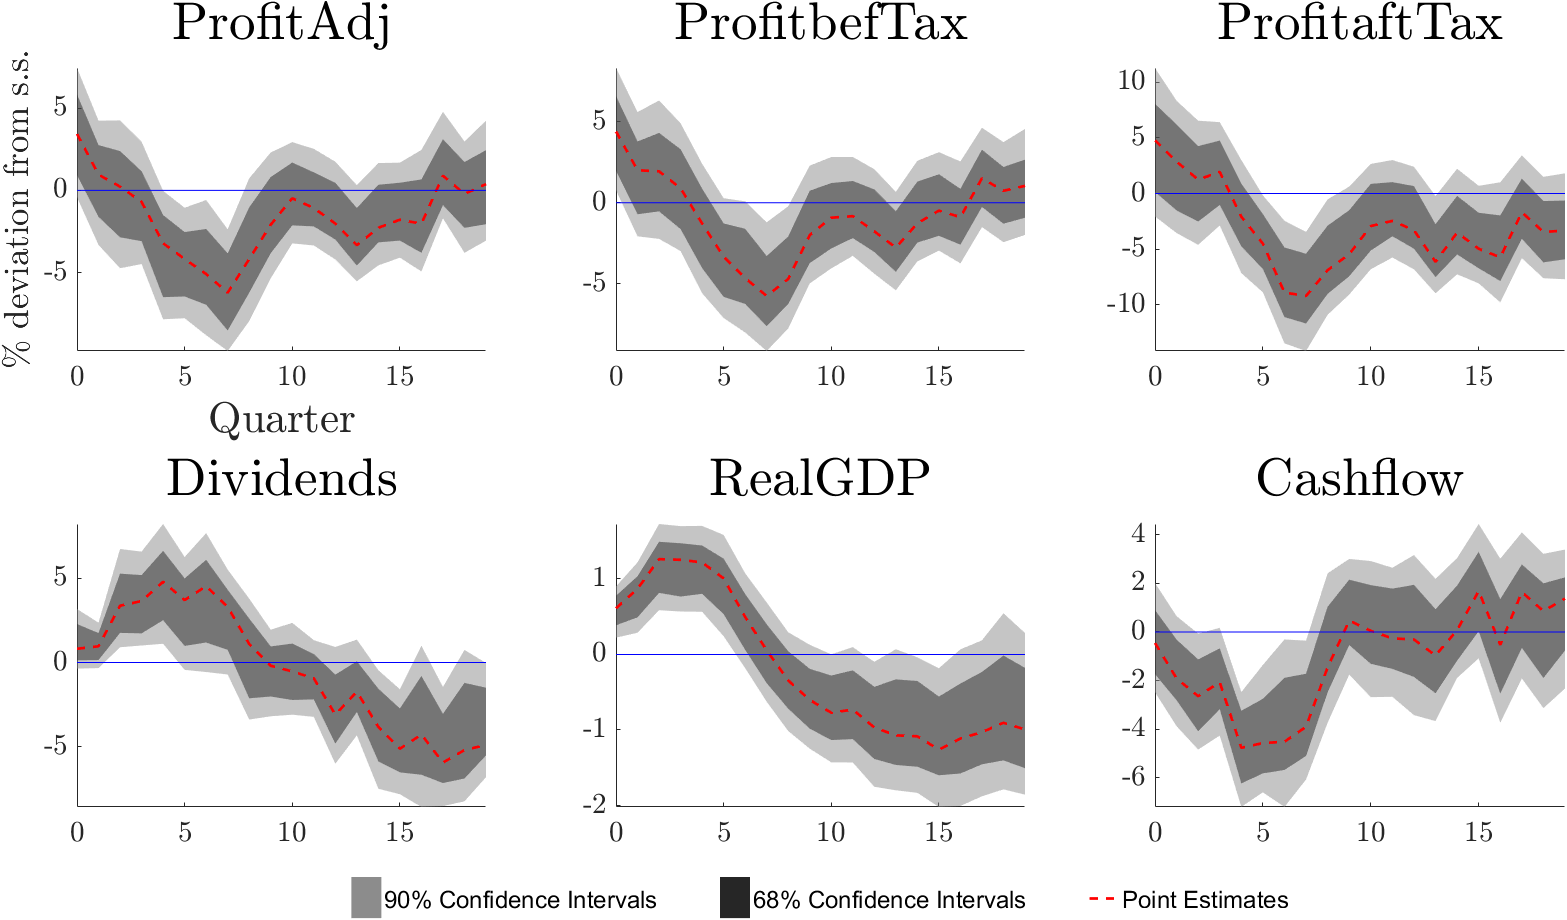
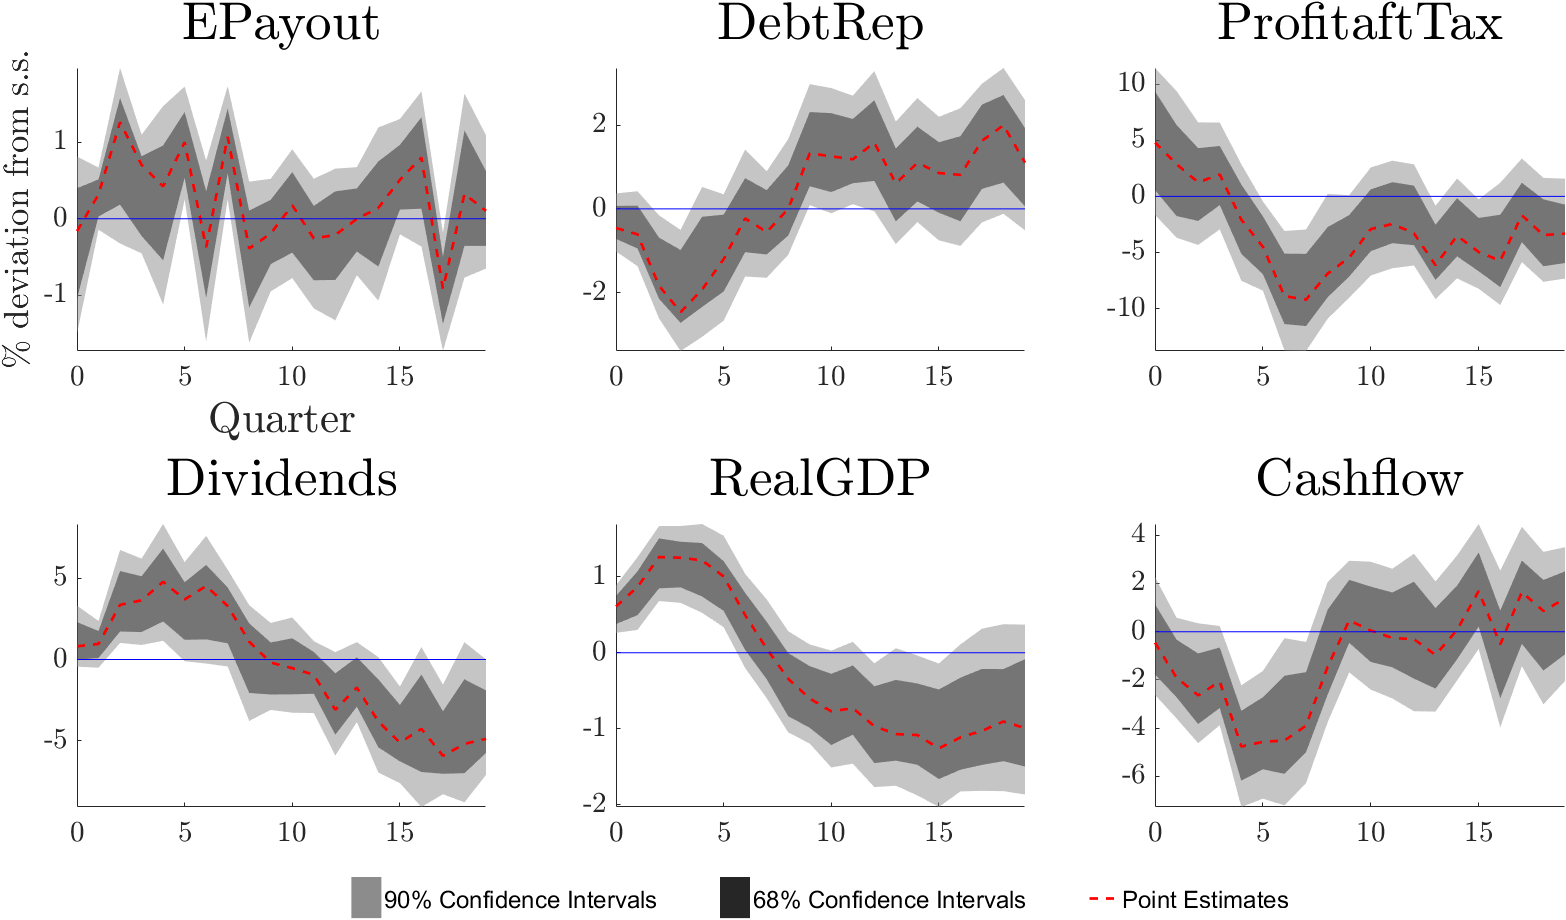
additional empirical checks

diff --git a/main_file_May2019.m b/main_file_May2019.m
@@ -14,20 +14,20 @@ load('TechShock_identification.mat');
 lags                = 4;             % Number of lags in the first step (deriving Ztilde)
 leads               = 0;             % Number of leads in the first step (deriving Ztilde)
 H                   = 20;            % IRFs horizon
-lags_LP             = 3;            % Number of lags in the Local Projection
+lags_LP             = 2;            % Number of lags in the Local Projection
 which_trend         = 'quad';        %'BP', 'HP', 'lin', 'quad', 'none', 'demean' for Local Projection
 which_Z             = {'1','2','3','4','5'}; % Which Forecast Revision: RGDP, NGDP, RCONS, INDPROD, RINV. If it is more than one it takes the first PC
 which_shock         = {'Sentiment','Tech'};      % Tech, News, Sentiment
 loc_start_exogenous = 0;             % Exogenous start
 diff_LP             = 0;             % LP in levels or differences
 nPC_first           = 3;             % Number of Principal Components in the first stage
-nPC_LP              = 3;             % Number of Principal Components in the second stage
+nPC_LP              = 2;             % Number of Principal Components in the second stage
 norm_SHOCK          = 0;             % Divide shock over its own variance
 printIRFs           = 1;             % Print IRFs
 printVD             = 0;              % Print Variance Decompositions
 nsimul              = 500;           % number of simulations for bootstrap
 control_pop         = 0;             % Divide GDP, Cons, Hours, Investment over population
-varlist             = {'ProfitAdj','ProfitbefTax','ProfitaftTax','Dividends','RealGDP','Cashflow'};%{'RealGDP','RealInvestment','RealCons','HoursAll'};%{'ProfitAdj','ProfitbefTax','ProfitaftTax','Dividends','RealGDP','Cashflow'};%{'HoursAll','Hours','HoursPerPerson','UnempRate','Employment'};%,'GDPDefl','FFR'}; % Define endogenous variables for LP
+varlist             = {'ProfitAdj','ProfitaftTax','Dividends','RealGDP','Cashflow'};%{'RealGDP','RealInvestment','RealCons','HoursAll'};%{'ProfitAdj','ProfitbefTax','ProfitaftTax','Dividends','RealGDP','Cashflow'};%{'HoursAll','Hours','HoursPerPerson','UnempRate','Employment'};%,'GDPDefl','FFR'}; % Define endogenous variables for LP
 varlist_graph       = varlist; %{'RealGDP','RealInvestment','RealCons','Hours'};
 
 % Read main dataset
@@ -117,15 +117,15 @@ TermYield               = TenYTreasury - ThreeMTreasury;
 BankLeverage            = BanksTotLiabilities - BanksTotAssets;
 CorpEqui2Assets         = NonFinEquity - NonFinTotAssets;
 CorpDebt2Assets         = NonFinDebtSecurities - NonFinTotAssets;
-ProfitAdj               = CorpProfitsAdj - GDPDefl - RealGDP;
-ProfitbefTax            = CorpProfitsbefTax - GDPDefl - RealGDP;
-ProfitaftTax            = CorpProfitsNoAdj - GDPDefl - RealGDP;
-Dividends               = Dividends - GDPDefl - RealGDP;
-UndistProf              = UndistributedProfits - GDPDefl - RealGDP;
-Cashflow                = CashFlow - GDPDefl - RealGDP;
-CorpEqui2Assets         = NonFinEquity - GDPDefl - RealGDP;
-Epay                    = 100*EPayout./exp(ValueAddedNFCorp); %./exp(RealGDP);
-Drep                    = 100*DebtRep./exp(ValueAddedNFCorp); %./exp(RealGDP); 
+ProfitAdj               = CorpProfitsAdj - GDPDefl;
+ProfitbefTax            = CorpProfitsbefTax - GDPDefl;
+ProfitaftTax            = CorpProfitsNoAdj - GDPDefl;
+Dividends               = Dividends - GDPDefl;
+UndistProf              = UndistributedProfits - GDPDefl;
+Cashflow                = CashFlow - GDPDefl;
+CorpEqui2Assets         = NonFinEquity - GDPDefl;
+Epay                    = 100*EPayout./exp(RealGDP);%./exp(ValueAddedNFCorp); %./exp(RealGDP);
+Drep                    = 100*DebtRep./exp(RealGDP);%./exp(ValueAddedNFCorp); %./exp(RealGDP); 
 % ProfAdj                 = CorpProfitsAdj - NonFinEquity;
 % ProfbT                  = CorpProfitsbefTax - NonFinEquity;
 % Prof                    = CorpProfitsNoAdj - NonFinEquity;
@@ -140,6 +140,11 @@ Drep                    = 100*DebtRep./exp(ValueAddedNFCorp); %./exp(RealGDP);
 % Div                     = Dividends - NonFinTotAssets;
 % UndistProf              = UndistributedProfits - NonFinTotAssets;
 % Cashflow                = CashFlow - NonFinTotAssets;
+
+% corr(Epay(1:end),RealGDP,'rows','complete')
+% corr(Drep(1:end),RealGDP,'rows','complete')
+
+
 
 % Matrix of dependent variables - All the variables are in log levels
 for i = 1:length(varlist)
